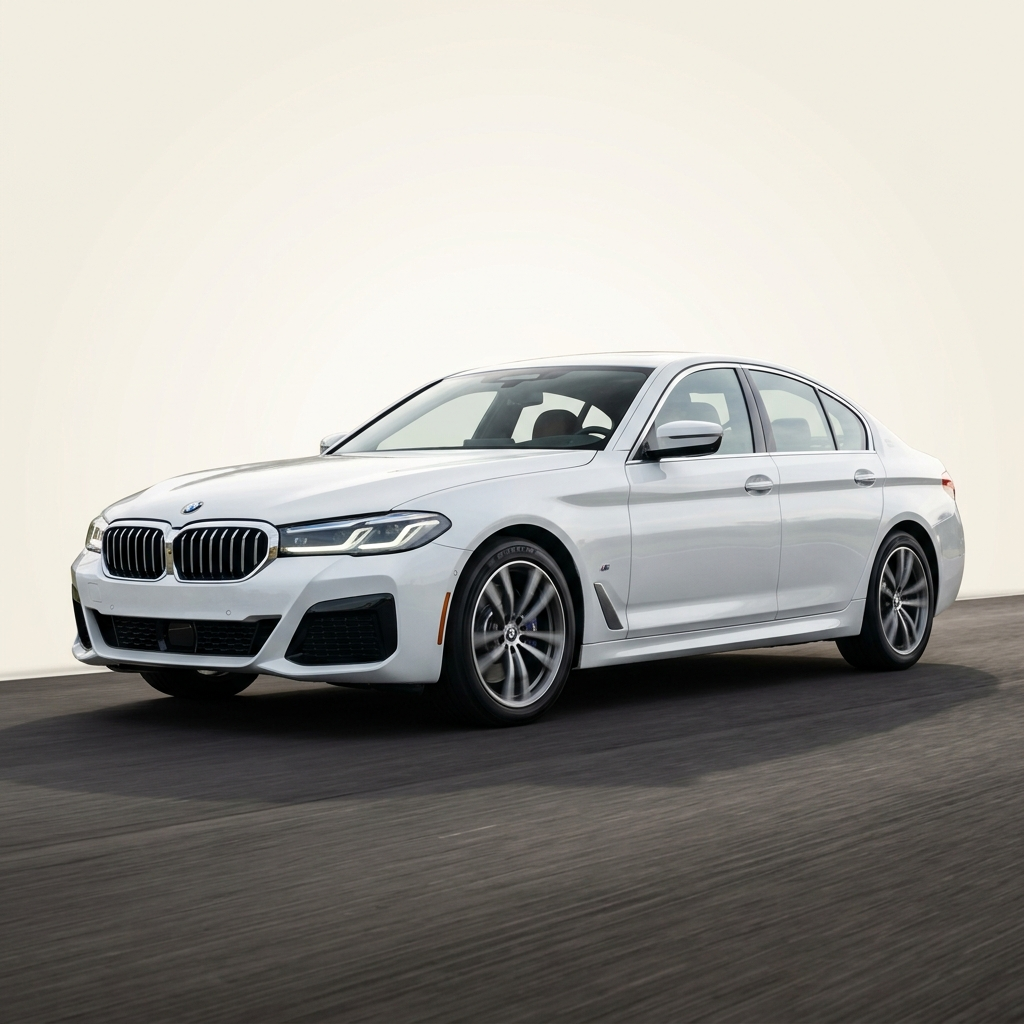
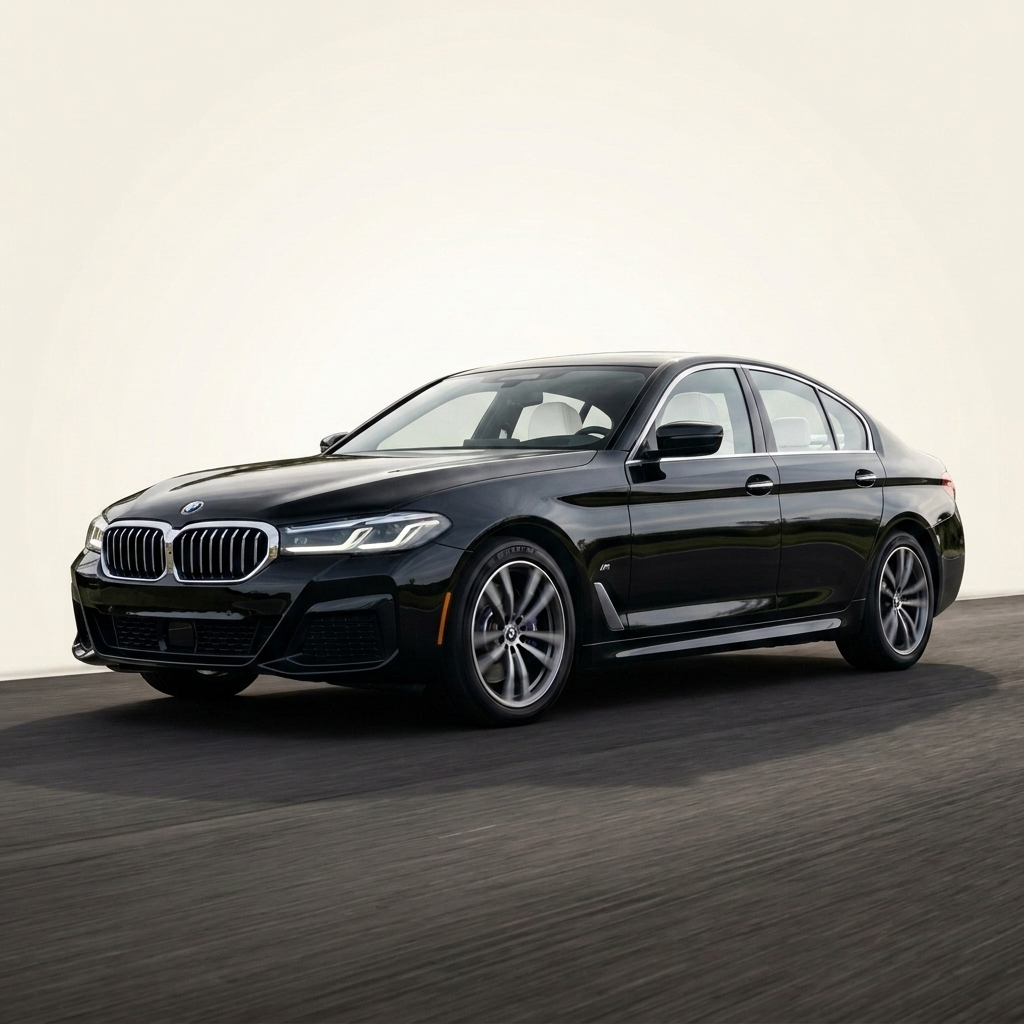
Front page

Changed region(s): [[0.0625, 0.3438, 0.9688, 0.6875], [0.8125, 0.375, 0.8438, 0.4062], [0.375, 0.375, 0.4062, 0.4062]]

diff --git a/src/app/page.js b/src/app/page.js
@@ -120,70 +120,120 @@ export default function HomePage() {
       <Navbar />
 
       {/* ════ HERO ════ */}
-      <section className="relative flex flex-col lg:block overflow-hidden bg-white" style={{ borderBottom: '1px solid #E2D8CE' }}>
-        {/* Right side background image (Full bleed on desktop, stacked on mobile) */}
-        <div className="lg:absolute lg:inset-y-0 lg:right-0 lg:w-[58%] w-full h-[280px] sm:h-[380px] lg:h-full z-0 order-last lg:order-none animate-slide-in">
-          <div className="relative w-full h-full hero-mask-lg">
+      <section
+        className="relative overflow-hidden"
+        style={{
+          background: 'linear-gradient(105deg, #FDF6EE 0%, #FAF0E4 45%, #F5E8D5 100%)',
+          borderBottom: '1px solid #E2D8CE',
+          minHeight: '520px',
+        }}
+      >
+        {/* ── Car image: right half, masked on left to blend into cream bg ── */}
+        <div
+          className="hidden lg:block absolute top-0 right-0 bottom-0"
+          style={{ width: '58%', zIndex: 0 }}
+        >
+          <div
+            className="relative w-full h-full"
+            style={{
+              WebkitMaskImage: 'radial-gradient(ellipse 100% 140% at 100% 50%, black 75%, transparent 100%)',
+              maskImage: 'radial-gradient(ellipse 100% 140% at 100% 50%, black 75%, transparent 100%)',
+            }}
+          >
             <Image
               src="/images/hero_car.png"
-              alt="Premium car — Bug Slayers professional car service"
+              alt="Luxury sedan driving — Bug Slayers professional car service"
               fill
               className="object-cover object-center lg:object-left"
               priority
             />
-            {/* Mobile top/bottom fades */}
-            <div className="lg:hidden absolute inset-x-0 bottom-0 h-20 bg-gradient-to-t from-white to-transparent" />
-            <div className="lg:hidden absolute inset-x-0 top-0 h-20 bg-gradient-to-b from-white to-transparent" />
           </div>
         </div>
 
-        {/* Content Container */}
-        <div className="content-wrapper relative z-20 py-12 lg:py-20 flex flex-col justify-center min-h-[460px] lg:min-h-[580px]">
-          <div className="max-w-xl lg:max-w-[540px] space-y-6">
+        {/* Mobile-only car image (stacked above text) */}
+        <div
+          className="lg:hidden w-full h-[240px] sm:h-[300px] relative"
+          style={{ zIndex: 0 }}
+        >
+          <div
+            className="relative w-full h-full"
+            style={{
+              WebkitMaskImage: 'linear-gradient(to bottom, black 70%, transparent 100%)',
+              maskImage: 'linear-gradient(to bottom, black 70%, transparent 100%)',
+            }}
+          >
+            <Image
+              src="/images/hero_car.png"
+              alt="Luxury sedan driving — Bug Slayers professional car service"
+              fill
+              className="object-cover object-center"
+              priority
+            />
+          </div>
+        </div>
+
+        {/* ── Left content ── */}
+        <div
+          className="relative content-wrapper py-14 lg:py-24 flex flex-col justify-center"
+          style={{ zIndex: 10 }}
+        >
+          <div className="lg:max-w-[500px] space-y-5">
+
             {/* Label */}
-            <p className="text-xs font-bold uppercase tracking-wider" style={{ color: '#E65313' }}>
-              Professional Car Care
+            <p className="text-[11px] font-extrabold uppercase tracking-[0.18em]" style={{ color: '#E65313' }}>
+              ● Professional Car Care
             </p>
 
             {/* Heading */}
-            <h1 className="text-4xl sm:text-5xl lg:text-[3.25rem] font-black tracking-tight leading-[1.08]" style={{ color: '#202020' }}>
+            <h1
+              className="text-4xl sm:text-5xl lg:text-[3.4rem] font-black tracking-tight"
+              style={{ color: '#1A1A1A', lineHeight: 1.1 }}
+            >
               Your Car Deserves<br />
               <span style={{ color: '#E65313' }}>The Best Care</span>
             </h1>
 
-            {/* Subtext */}
-            <p className="text-base sm:text-lg leading-relaxed text-gray-600">
+            {/* Sub-copy */}
+            <p className="text-base sm:text-lg leading-relaxed" style={{ color: '#5A5A5A', maxWidth: '420px' }}>
               From routine maintenance to advanced repair, we keep your car running smooth, safe and new.
             </p>
 
-            {/* Buttons */}
-            <div className="flex flex-col sm:flex-row gap-3 pt-2">
-              <LinkNext href="/vehicle-selection" className="btn-primary text-base flex items-center justify-center gap-2">
-                <Calendar size={18} /> Book Service
+            {/* CTA buttons */}
+            <div className="flex flex-wrap gap-3 pt-1">
+              <LinkNext
+                href="/vehicle-selection"
+                className="flex items-center gap-2 px-6 py-3 rounded-lg text-sm font-bold text-white shadow-md transition-all hover:opacity-90 active:scale-[0.98]"
+                style={{ background: '#E65313' }}
+              >
+                <Calendar size={16} /> Book Service
               </LinkNext>
-              <LinkNext href="/packages" className="btn-outline text-base bg-white flex items-center justify-center gap-2">
-                View Pricing <ChevronRight size={18} />
+              <LinkNext
+                href="/packages"
+                className="flex items-center gap-2 px-6 py-3 rounded-lg text-sm font-bold border-2 transition-all hover:bg-orange-50"
+                style={{ color: '#E65313', borderColor: '#E65313', background: 'transparent' }}
+              >
+                View Pricing <ChevronRight size={16} />
               </LinkNext>
             </div>
 
-            {/* Bottom features bar */}
-            <div className="grid grid-cols-2 gap-y-4 gap-x-4 pt-6 border-t border-gray-200">
-              <div className="flex items-center gap-2 text-xs sm:text-sm font-bold text-gray-700">
-                <ShieldCheck size={16} className="text-gray-400 shrink-0" />
-                <span>Certified Experts</span>
-              </div>
-              <div className="flex items-center gap-2 text-xs sm:text-sm font-bold text-gray-700">
-                <Wrench size={16} className="text-gray-400 shrink-0" />
-                <span>Genuine Parts</span>
-              </div>
-              <div className="flex items-center gap-2 text-xs sm:text-sm font-bold text-gray-700">
-                <Phone size={16} className="text-gray-400 shrink-0" />
-                <span>24/7 Support</span>
-              </div>
-              <div className="flex items-center gap-2 text-xs sm:text-sm font-bold text-gray-700">
-                <CircleDollarSign size={16} className="text-gray-400 shrink-0" />
-                <span>Transparent Pricing</span>
-              </div>
+            {/* Trust badges — 4-column strip */}
+            <div
+              className="grid grid-cols-2 sm:grid-cols-4 gap-x-6 gap-y-3 pt-6 mt-2"
+              style={{ borderTop: '1px solid rgba(0,0,0,0.10)' }}
+            >
+              {[
+                { icon: ShieldCheck,       label: 'Certified Experts'    },
+                { icon: Wrench,            label: 'Genuine Parts'        },
+                { icon: Phone,             label: '24/7 Support'         },
+                { icon: CircleDollarSign,  label: 'Transparent Pricing'  },
+              ].map(({ icon: Icon, label }) => (
+                <div key={label} className="flex items-center gap-2">
+                  <Icon size={15} style={{ color: '#E65313', flexShrink: 0 }} />
+                  <span className="text-[12px] font-bold whitespace-nowrap" style={{ color: '#3A3A3A' }}>
+                    {label}
+                  </span>
+                </div>
+              ))}
             </div>
           </div>
         </div>